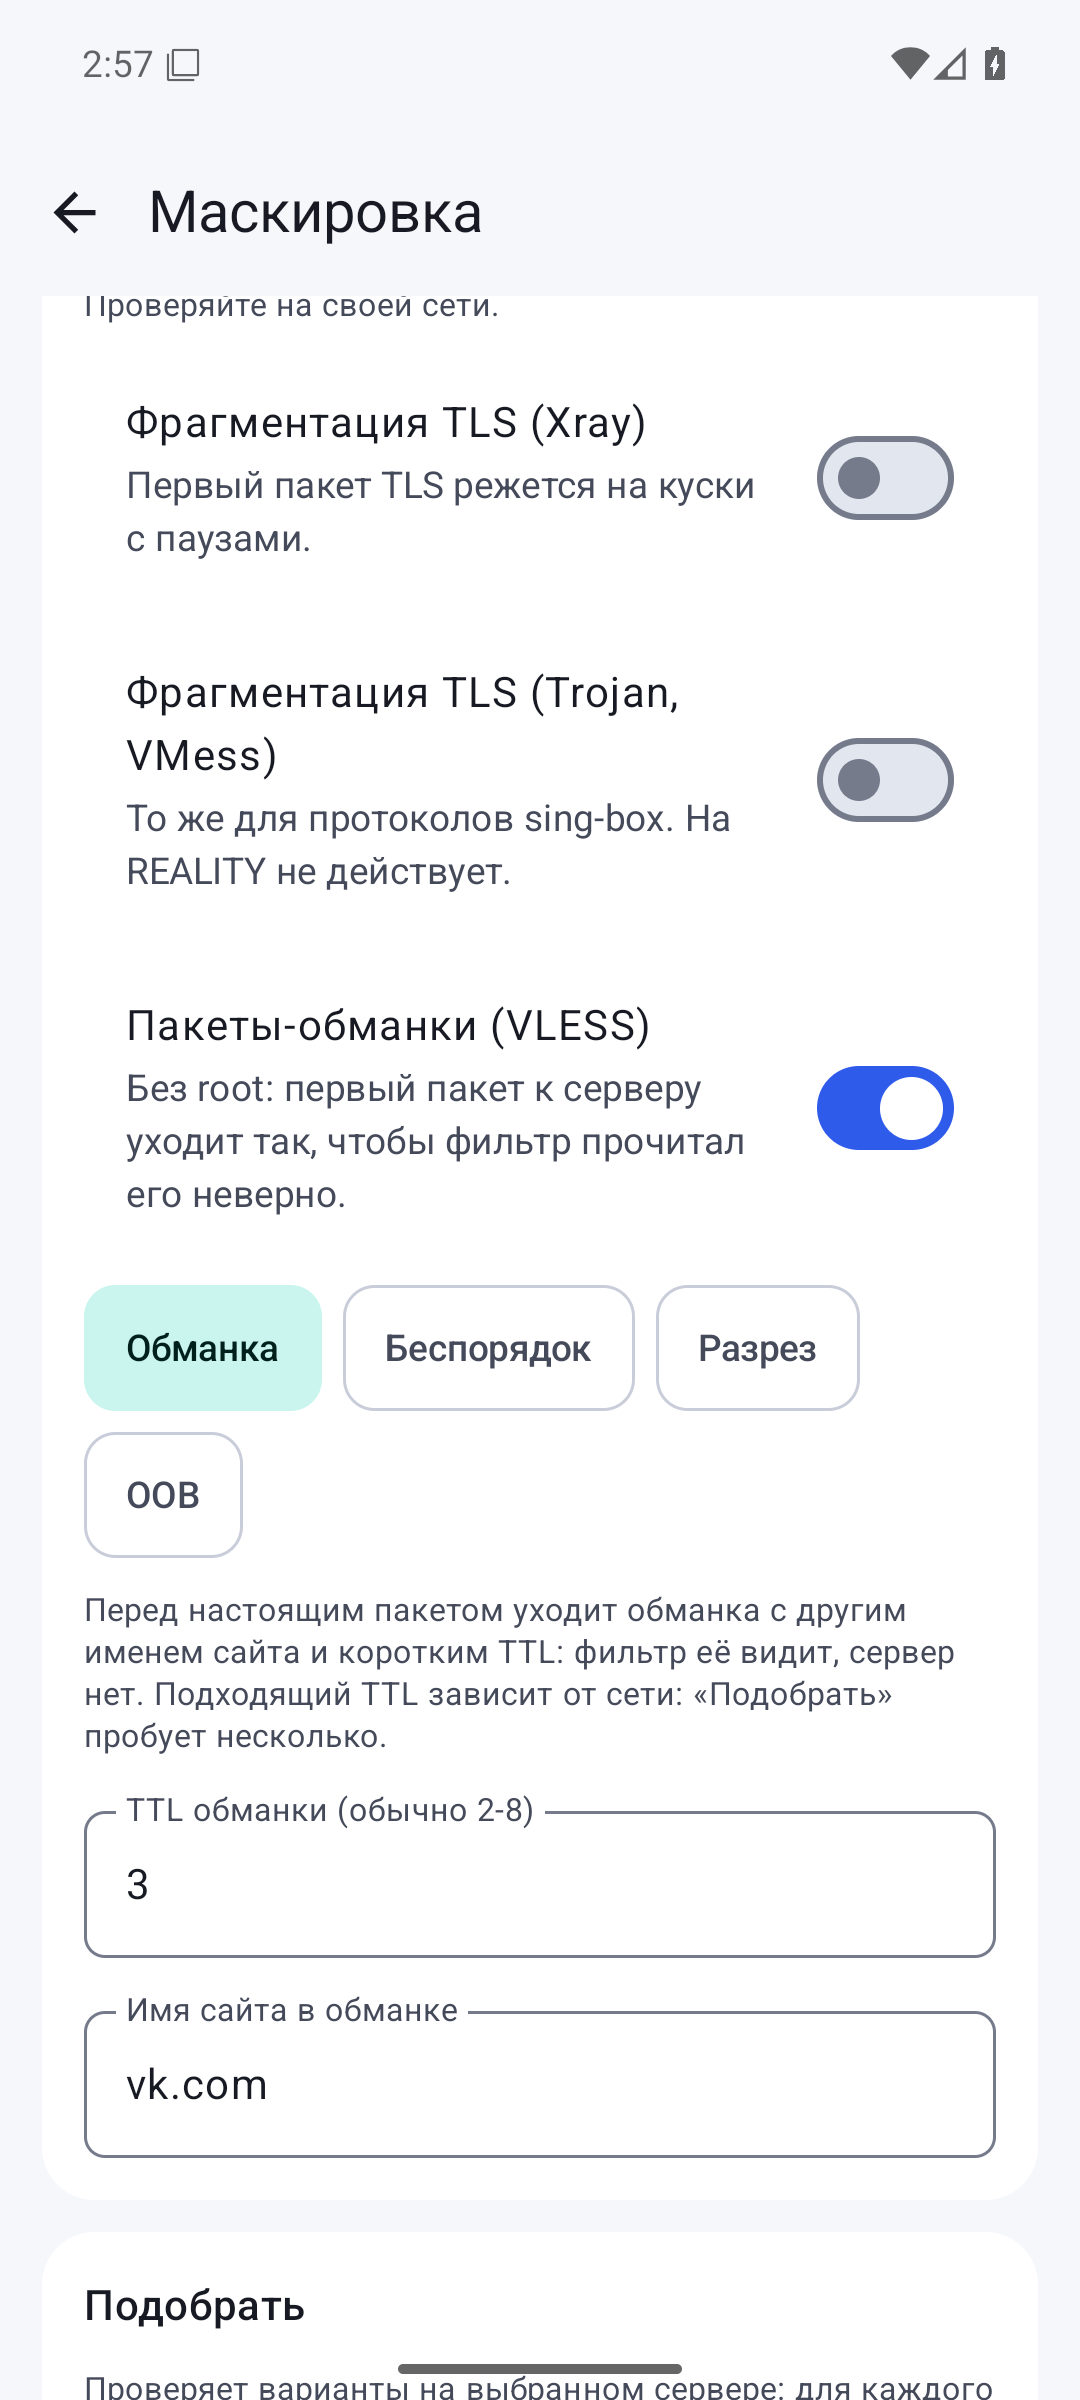
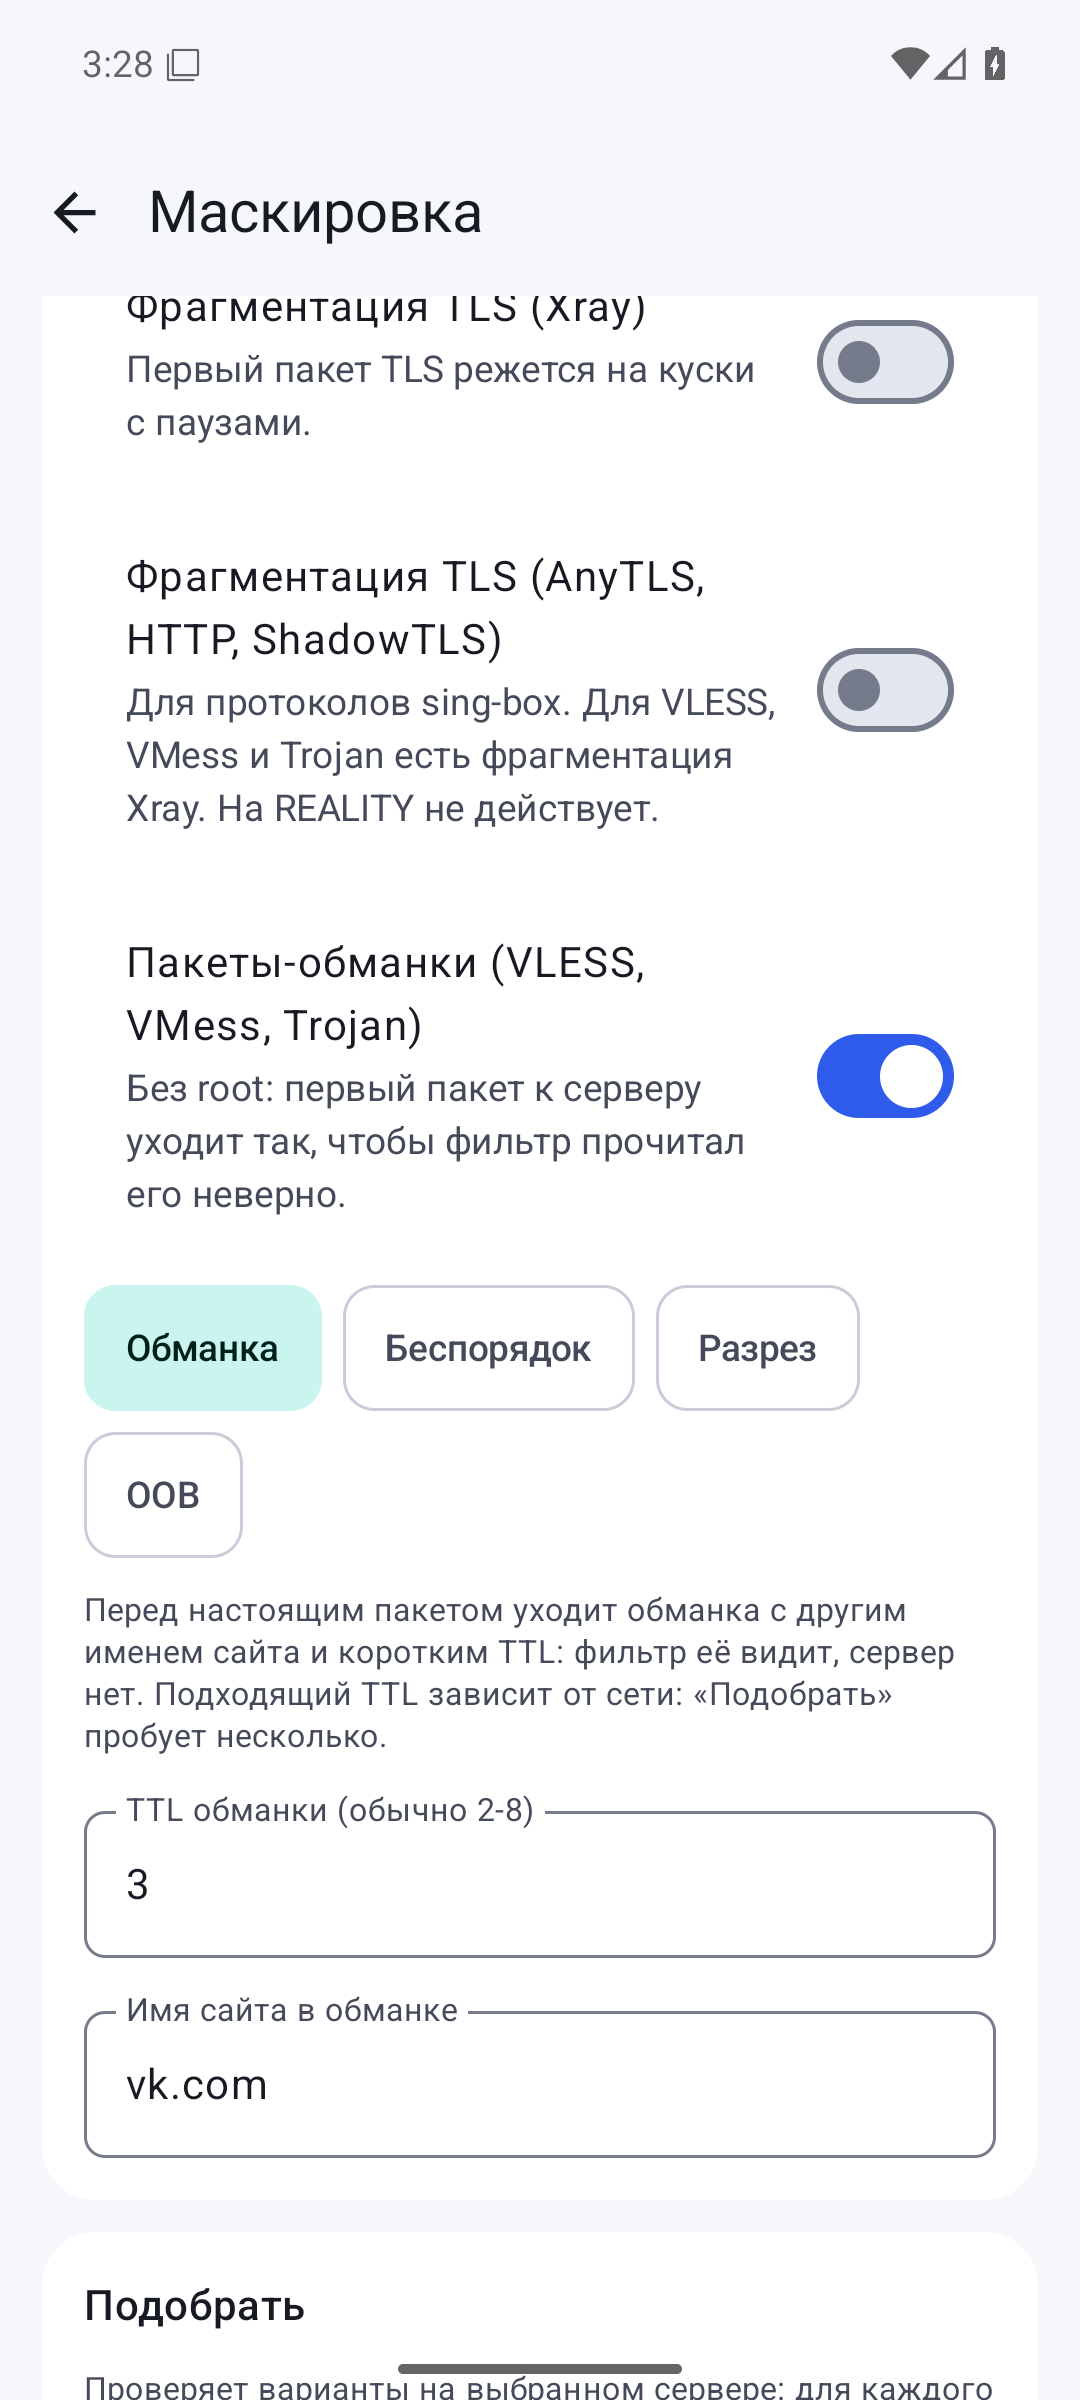
Гайд Android: маскировка для VMess и Trojan с 0.6.29, новые скриншоты

diff --git a/ZapretKVN/android.md b/ZapretKVN/android.md
@@ -254,8 +254,8 @@ WSS и прокси в ZaStoGram не работают одновременно:
 Что есть на странице:
 
 - **WireGuard-маскировка** — перед подключением уходят мусорные пакеты и пакет, похожий на обычный трафик. Работает и с обычным WireGuard-сервером. Готовые наборы: «Плановый DNS», «Больше мусора», «Только junk».
-- **Xray-соединения (VLESS)** — Xray mux: запросы идут в нескольких долгих соединениях, меньше рукопожатий подряд. Для серверов XHTTP — «смена соединений»: короткие соединения помогают против заморозки после ~16-30 КБ, долгие — против частых рукопожатий.
-- **Эксперименты** — фрагментация TLS (первый пакет режется на куски) и **пакеты-обманки** для VLESS по TCP, без root: «Обманка» (перед настоящим пакетом уходит пакет с другим именем сайта и коротким TTL, фильтр его видит, сервер нет), «Беспорядок» и «Разрез» первого пакета.
+- **Xray-соединения (VLESS, VMess, Trojan)** — Xray mux: запросы идут в нескольких долгих соединениях, меньше рукопожатий подряд. Для серверов XHTTP — «смена соединений»: короткие соединения помогают против заморозки после ~16-30 КБ, долгие — против частых рукопожатий.
+- **Эксперименты** — фрагментация TLS (первый пакет режется на куски) и **пакеты-обманки** для VLESS, VMess и Trojan, без root: «Обманка» (перед настоящим пакетом уходит пакет с другим именем сайта и коротким TTL, фильтр его видит, сервер нет), «Беспорядок» и «Разрез» первого пакета.
 
 ![[kvn-android-masking-desync.png|300]]
 
@@ -270,7 +270,9 @@ WSS и прокси в ZaStoGram не работают одновременно:
 > [!warning] Маскировка — эксперимент
 > Что помогает, зависит от провайдера и даже от сети (Wi-Fi или мобильный интернет). Если после включения стало хуже, выключите маскировку переключателем вверху страницы.
 
-Скриншоты сняты в версии 0.6.28.
+С версии 0.6.29 VMess и Trojan работают на ядре Xray, как VLESS, и получают те же настройки. Отдельная «Фрагментация TLS (AnyTLS, HTTP, ShadowTLS)» — для протоколов sing-box.
+
+Скриншоты сняты в версии 0.6.29.
 
 ## Если не работает
 
